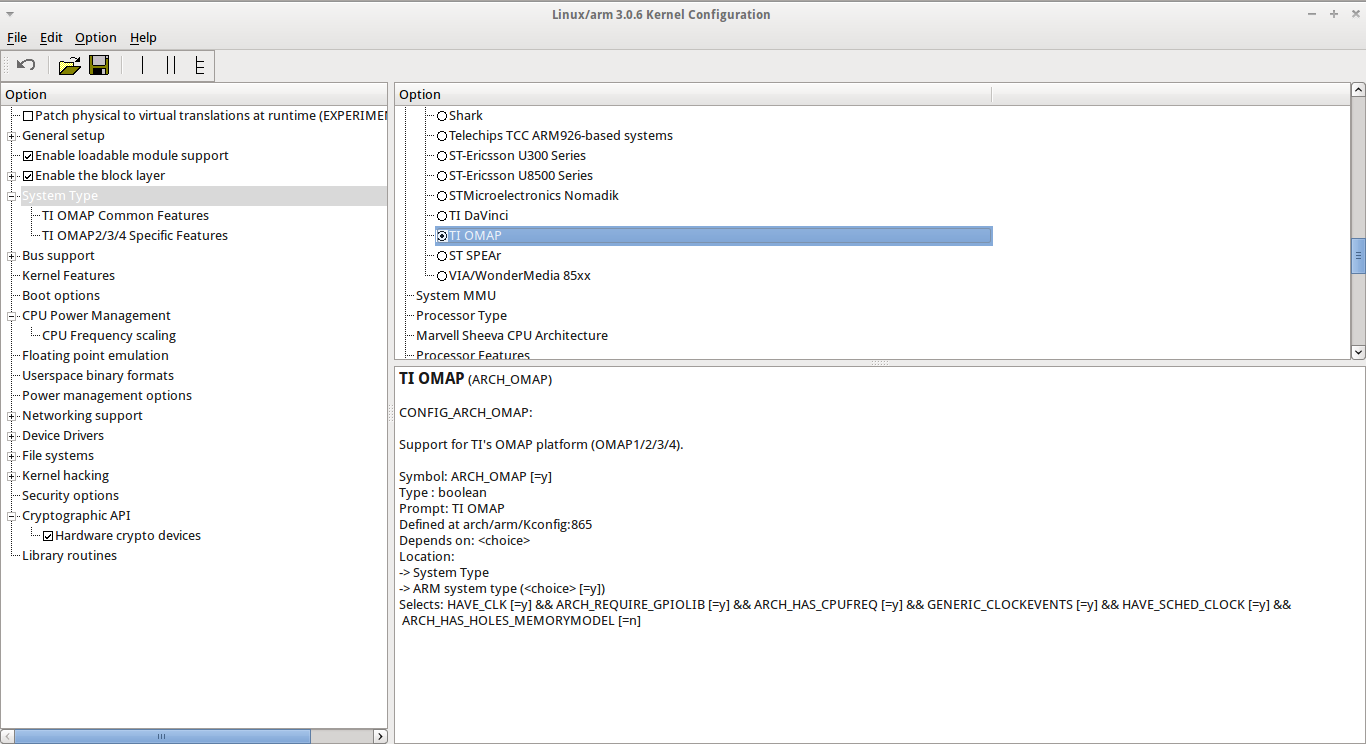
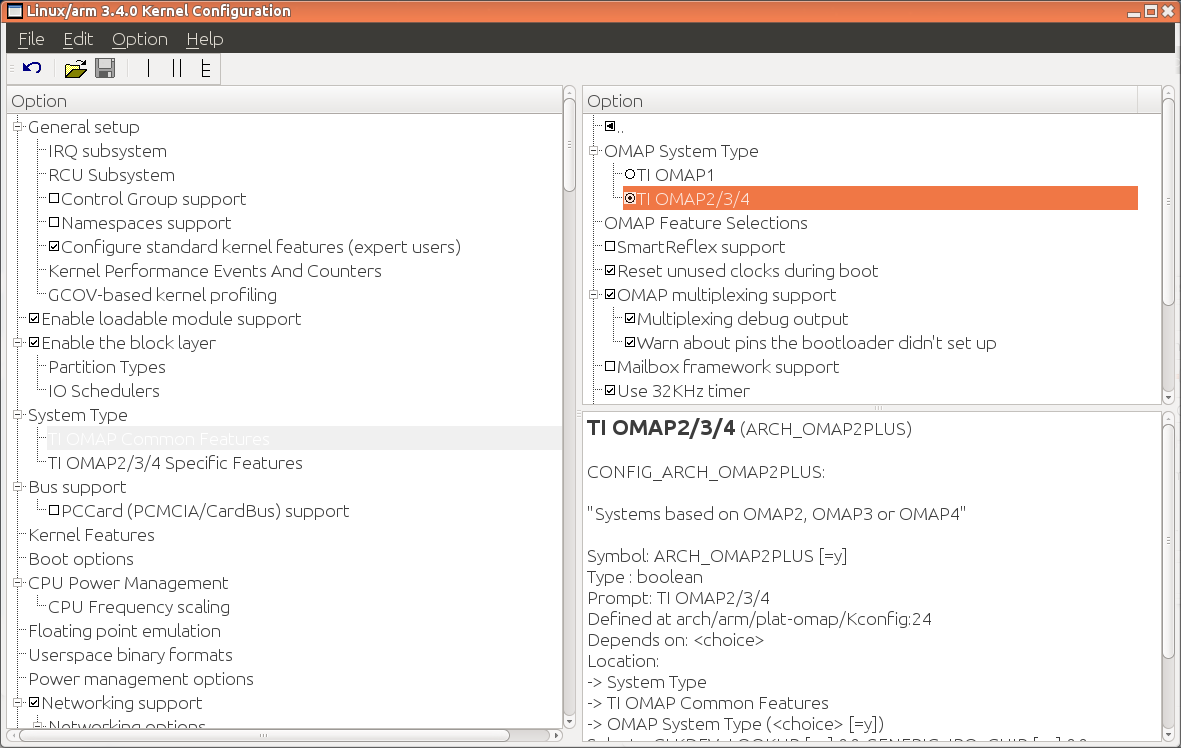
Fix tiny screenshot and removed vspaces
- xconfig screenshot was too small
  Recreated with a bigger font size
- Removed vspace statements in
  "make gconfig", "make menuconfig"
  and "make nconfig", looking ugly

Changed region(s): [[0.0, 0.0, 1.0, 1.0], [0.2134, 0.6183, 0.2439, 0.6492]]

diff --git a/slides/sysdev-linux-intro-configuration/sysdev-linux-intro-configuration.tex b/slides/sysdev-linux-intro-configuration/sysdev-linux-intro-configuration.tex
@@ -199,13 +199,12 @@ CONFIG_NTFS_RW=y
   \begin{columns}
     \column{0.5\textwidth}
     \code{make gconfig}
-    \vspace{0.5cm}
-    {\em GTK} based graphical configuration interface. Functionality
-    similar to that of make \code{xconfig}.
-    \vspace{0.5cm}
-    Just lacking a search functionality.
-    \vspace{0.5cm}
-    Required Debian packages: \code{libglade2-dev}
+    \begin{itemize}
+      \item {\em GTK} based graphical configuration interface. Functionality
+            similar to that of make \code{xconfig}.
+      \item Just lacking a search functionality.
+      \item Required Debian packages: \code{libglade2-dev}
+    \end{itemize}
     \column{0.5\textwidth}
     \includegraphics[width=0.9\textwidth]{slides/sysdev-linux-intro-configuration/gconfig-screenshot.png}
   \end{columns}
@@ -216,12 +215,11 @@ CONFIG_NTFS_RW=y
   \begin{columns}
     \column{0.5\textwidth}
     \code{make menuconfig}
-    \vspace{0.5cm}
-    Useful when no graphics are available. Pretty convenient too!
-    \vspace{0.5cm}
-    Same interface found in other tools: BusyBox, Buildroot...
-    \vspace{0.5cm}
-    Required Debian packages: \code{libncurses-dev}
+    \begin{itemize}
+      \item Useful when no graphics are available. Pretty convenient too!
+      \item Same interface found in other tools: BusyBox, Buildroot...
+      \item Required Debian packages: \code{libncurses-dev}
+    \end{itemize}
     \column{0.5\textwidth}
     \includegraphics[width=0.9\textwidth]{slides/sysdev-linux-intro-configuration/menuconfig-screenshot.png}
   \end{columns}
@@ -232,12 +230,11 @@ CONFIG_NTFS_RW=y
   \begin{columns}
     \column{0.5\textwidth}
     \code{make nconfig}
-    \vspace{0.5cm}
-    A newer, similar text interface
-    \vspace{0.5cm}
-    More user friendly (for example, easier to access help information).
-    \vspace{0.5cm}
-    Required Debian packages: \code{libncurses-dev}
+    \begin{itemize}
+      \item A newer, similar text interface
+      \item More user friendly (for example, easier to access help information).
+      \item Required Debian packages: \code{libncurses-dev}
+    \end{itemize}
     \column{0.5\textwidth}
     \includegraphics[width=0.9\textwidth]{slides/sysdev-linux-intro-configuration/nconfig-screenshot.png}
   \end{columns}
@@ -336,7 +333,7 @@ CONFIG_NTFS_RW=y
   \item Enable the block layer
     \begin{itemize}
     \item If \code{CONFIG_EXPERT} is enabled, the block layer can be
-      completely removed.  Embedded systems using only Flash storage
+      completely removed. Embedded systems using only flash storage
       can safely disable the block layer
     \end{itemize}
   \item Processor type and features (x86) or System type (ARM) or CPU selection
@@ -403,7 +400,7 @@ CONFIG_NTFS_RW=y
   \begin{itemize}
   \item Device drivers
     \begin{itemize}
-    \item MTD is the subsystem for Flash (NOR, NAND, OneNand,
+    \item MTD is the subsystem for flash (NOR, NAND, OneNand,
       battery-backed memory, etc.)
     \item Parallel port support
     \item Block devices, a few misc block drivers such as loopback,
@@ -516,7 +513,7 @@ CONFIG_NTFS_RW=y
     \item CD-ROM filesystems: ISO9660, UDF
     \item DOS/Windows filesystems: FAT and NTFS
     \item Pseudo filesystems: proc and sysfs
-    \item Miscellaneous filesystems, with amongst other Flash
+    \item Miscellaneous filesystems, with amongst other flash
       filesystems such as JFFS2, UBIFS, SquashFS, cramfs
     \item Network filesystems, with mainly NFS and SMB/CIFS
     \end{itemize}
